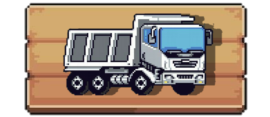
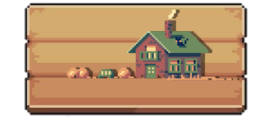
Header image 변경
- bag: 톱니바퀴
- truck: 집
으로 변경되었습니다.

diff --git a/main.css b/main.css
@@ -17,7 +17,6 @@ body {
     format('truetype');
 }
 
-/* box를 mainbox의 정가운데에 위치시켜볼 예정. 필요 없으면 제거. 1200x950 */
 .mainbox {
   background: url('./image_main/background_white.png');
   width: 910px;
@@ -75,10 +74,20 @@ header #main_title {
   font-size: 50px;
   text-shadow: 0px 5px 2px #073612;
 }
-header button {
+header #demend {
   width: 30%;
   height: 100%;
   background: none;
+  border: none;
+  cursor: pointer;
+  padding: 0;
+  position: relative;
+}
+header #menu {
+  width: 10%;
+  height: 100%;
+  background: none;
+  margin-right: 80px;
   border: none;
   cursor: pointer;
   padding: 0;
@@ -235,7 +244,6 @@ header #menu img {
   overflow: auto;
 }
 
-/* [menu]와 [market & sell]버튼은 일부러 분리했습니다. */
 .menu-modal.visible .menu_modal__content .asdbtn {
   font-family: "NeoDunggeunmoPro-Regular";
   font-size: 20px;

diff --git a/main.html b/main.html
@@ -54,7 +54,7 @@
     <!-- 요구사항 모달 -->
     <div class="demend-modal">
       <div class="modal__content">
-        <img src="./home.jpg" alt="" class="demend-main-img" />
+        <img src="./image_main/Mansion.png" class="demend-main-img" />
         <p>가격 : G</p>
         <button class="buy-btn">구매</button>
       </div>

diff --git a/start.html b/start.html
@@ -14,7 +14,6 @@
             <img src="./image_start/background_start.jpg" id="farm">
         </div>
         <a href="./main.html"><img src="./image_start/start.png" class="startbtn"></a>
-        <a href="#"><img src="./image_start/howto.png" class="startbtn"></a>
     </div>
 </body>
 </html>
